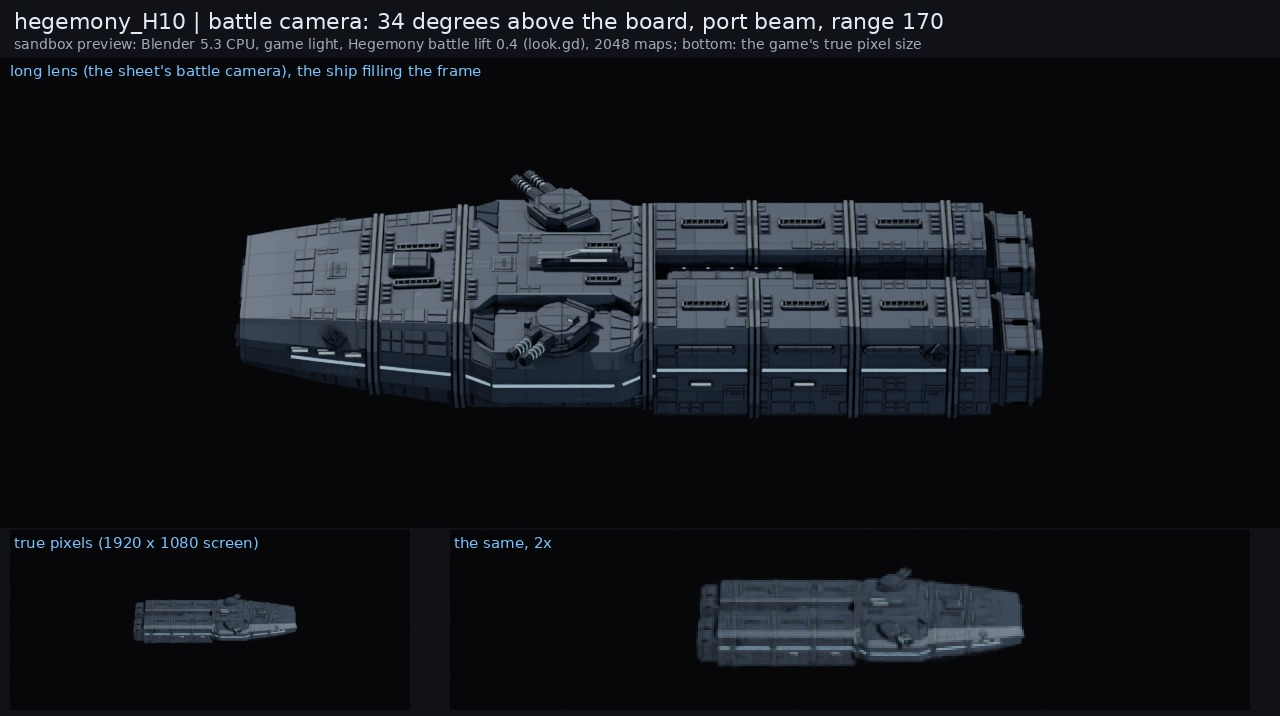
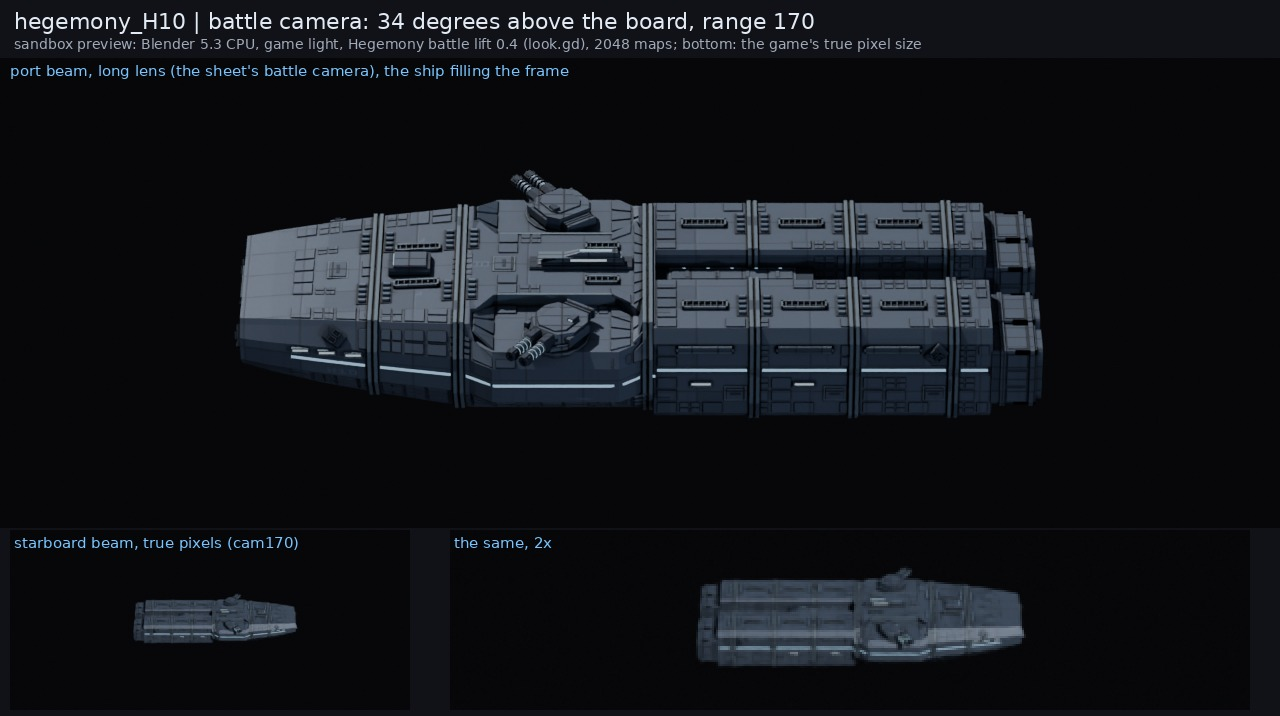
Hegemony paint: band seam words match the build, battle captions name each beam, ratios() named
The stack comments and RECIPE now say what panel_nodes draws at a module band: the joint
between the rings dark all across (.0038 ship lengths on H10, .0026 on IM5) and a one-sided
seam 1.5 patch_seam wide where each ring meets the plating. Comment-only stack change (the
bakes ran at 2d666cc). The battle pictures say the long lens is the port beam and cam170 the
starboard beam. IM5 README names inventory.py ratios(). preview.py gains a decal close (mark).

Refs #780

Claude-Session: https://claude.ai/code/session_01TX7Q21s76BEf5gcGTrpJ1G

diff --git a/tools/blender/kits/hegemony/stack.py b/tools/blender/kits/hegemony/stack.py
@@ -121,8 +121,11 @@ LAYERS = dict(
     # are drawn by panel_nodes below (the shared patchwork hands them over before it reads any of these three), so the shared
     # _grid never sees these zeros.
     patch_warp=0, patch_band=0, patch_split=0,
-    # hegemony.md 1, the module band: where hull sections butt and the rails meet the hull, a double-width seam (three times
-    # patch_seam), a deeper seam_dark .96 and an AO-driven recess
+    # hegemony.md 1, the module band: where hull sections butt and the rails meet the hull, a double-width seam (about three times
+    # patch_seam), a deeper seam_dark .96 and an AO-driven recess. As built (panel_nodes): the joint between the band's two trim
+    # rings (the sheet's *_bandseam_*, 0.08 world wide: .0038 ship lengths on H10, .0026 on IM5) is seam all across, and a
+    # one-sided seam band_seam / 2 = 1.5 patch_seam wide runs where each ring meets the plating (a full-width seam there covered
+    # the whole 0.10 world ring on the second sandbox bake)
     band_seam=3.0, band_dark=.96, band_ao=.35, band_grime=.40,
     cavity_pow=1.6, wear_lo=.30, wear_hi=.54,
     scuff=.08, scuff_size=.050,                                           # hegemony.md 1: machining and handling marks
@@ -222,8 +225,8 @@ def panel_nodes(c, col, amount, families=None, cells=None):
     beam measured out from the centreline so port and starboard are mirror images, z up), no stagger, no warp, no split: the same
     module on every sister ship. Two module sizes: patch_big on the body modules (zone hgrey), patch_small on the small module
     plates and recessed fields (hpanel, hgrey2) and on every part. Each plate cell takes one calm tone (a family or the zone's
-    own narrow slice); never per mesh island (R237: grain). The module bands (module_bands()) carry the joint: a double-width
-    seam at each band's edges and its seam, darker (band_dark), an AO-driven recess and a little more grime; over-plates
+    own narrow slice); never per mesh island (R237: grain). The module bands (module_bands()) carry the joint: the band's own
+    seam dark all across and a one-sided seam where each ring meets the plating, darker (band_dark), an AO-driven recess and a little more grime; over-plates
     (patch_over, share .05) sit only beside the bands. Returns the colour and the seam mask (the shared stack darkens the seams by
     seam_dark and bakes their relief into the hull normal)."""
     from paint_stack import node, math_, mixc, ramp
@@ -275,7 +278,7 @@ def panel_nodes(c, col, amount, families=None, cells=None):
     if not hull:
         return col, math_(nt, 'MULTIPLY', seam, amount, clamp=True)
     # the module bands: the box of each band (a little wider, so the joint reaches the plating on both sides of the rings), the
-    # double-width seams at its edges and at its own seam, and a wider neighbourhood where the over-plates may sit
+    # seams at its edges and at its own seam, and a wider neighbourhood where the over-plates may sit
     pad, near = .003, .022
     B = W = bseam = None
     for (x0, x1, y0, y1, z0, z1, xs0, xs1) in module_bands():
@@ -289,7 +292,7 @@ def panel_nodes(c, col, amount, families=None, cells=None):
         B = bi if B is None else math_(nt, 'MAXIMUM', B, bi)
         W = wi if W is None else math_(nt, 'MAXIMUM', W, wi)
         # the joint itself (the band's own seam, between its two trim rings) is seam all across, and where the rings meet the
-        # plating a seam three patch_seam wide runs on the plating side only, so the rings stay clean machined trim
+        # plating a seam band_seam / 2 patch_seam wide runs on the plating side only, so the rings stay clean machined trim
         hw = L['patch_seam'] * L['band_seam'] / 2
         e = math_(nt, 'MULTIPLY', math_(nt, 'GREATER_THAN', c.x, xs0), math_(nt, 'LESS_THAN', c.x, xs1))
         for xe, sgn in ((x0, -1.0), (x1, 1.0)):

diff --git a/contrib/opus/tools/issue780/pictures.py b/contrib/opus/tools/issue780/pictures.py
@@ -64,13 +64,13 @@ c.save(os.path.join(OUT, f'{SHEET}_paint_close.jpg'), quality=92)
 
 # 3. the battle camera: 34 degrees above the board, port beam, range 170
 c = Image.new('RGB', (1280, 716), BG)
-head(c, f'{SHEET} | battle camera: 34 degrees above the board, port beam, range 170', NOTE + '; bottom: the game\'s true pixel size')
-c.paste(band(img('paint_battle'), 470), (0, 58)); label(c, (10, 62), 'long lens (the sheet\'s battle camera), the ship filling the frame')
+head(c, f'{SHEET} | battle camera: 34 degrees above the board, range 170', NOTE + '; bottom: the game\'s true pixel size')
+c.paste(band(img('paint_battle'), 470), (0, 58)); label(c, (10, 62), 'port beam, long lens (the sheet\'s battle camera), the ship filling the frame')
 g = img('paint_cam170')
 a = np.asarray(g.convert('L')); ys, xs = np.where(a > 14)
 cx, cy = (int(xs.mean()), int(ys.mean())) if len(xs) else (320, 180)
 crop = g.crop((cx - 200, cy - 90, cx + 200, cy + 90))
-c.paste(crop, (10, 530)); label(c, (14, 534), 'true pixels (1920 x 1080 screen)')
+c.paste(crop, (10, 530)); label(c, (14, 534), 'starboard beam, true pixels (cam170)')
 z = crop.crop((0, 45, 400, 135)).resize((800, 180), Image.NEAREST); c.paste(z, (450, 530)); label(c, (454, 534), 'the same, 2x')
 c.save(os.path.join(OUT, f'{SHEET}_paint_battle.jpg'), quality=92)
 for n in ('concept', 'close', 'battle'):

diff --git a/contrib/opus/tools/issue780/preview.py b/contrib/opus/tools/issue780/preview.py
@@ -6,7 +6,8 @@
 #           beam, range 170, a long lens so the ship fills the frame)
 #   band    a module band close, from above the port bow quarter: the even grid, the double seam, the latch row
 #   flank   the port flank close: the blue line, its break at a band, the hull number
-# usage: python run_cpu.py preview.py PAINTED.blend -- OUT_DIR SHEET CONCEPT_JPG [samples=16] [scale=0.5] [only=battle,band,flank]
+#   mark    a decal close (only with mark=x,y,z, a position from the job's decal report)
+# usage: python run_cpu.py preview.py PAINTED.blend -- OUT_DIR SHEET CONCEPT_JPG [samples=16] [scale=0.5] [only=battle,band,flank,mark] [mark=x,y,z]
 import os, sys, math, json, re, runpy
 import bpy
 from mathutils import Vector
@@ -60,4 +61,7 @@ if 'flank' in want:
     else:
         t = Vector((.25, .15, 0))
     o = cam('flank', t, Vector((0.25, 1.0, 0.30)).normalized() * .34, 50, (1280, 720)); shoot(o, 'paint_flank', float(SCALE) * 2)
+if 'mark' in want and kw.get('mark'):      # a decal close (mark=x,y,z from the job's decal report): the stencil read at close range
+    t = Vector(tuple(float(v) for v in kw['mark'].split(',')))
+    o = cam('mark', t, Vector((0.15, 1.0 if t.y >= 0 else -1.0, 0.35)).normalized() * .12, 50, (1280, 720)); shoot(o, 'paint_mark', float(SCALE) * 2)
 print('[780] preview done', flush=True)

diff --git a/docs/ship_pipeline/RECIPE.md b/docs/ship_pipeline/RECIPE.md
@@ -306,8 +306,10 @@ Sunward stacks and `kits/shared` untouched). What is the faction's own, and wher
   are 0 with the R243 comment (the even grid is the lore; never warp it). The sheets model the grid as flush slabs
   (`module_panels`), so on the plated zones the painted seams are faint (`grid_seam` .35) and the cells' calm tones carry it.
   The module band: every hull object named `*_bandseam_*` (with the `*_band_*` trim rings beside it) is a joint; there the
-  seams run three times as wide (`band_seam`), reach `band_dark` .96, the short occlusion deepens the recess and grime gathers
-  to .40; over-plates (`patch_over`, share .05) sit only beside the bands. A sheet with no band stops the stack. No rivets
+  joint between the two rings is seam all across (0.08 world: .0038 ship lengths on H10, .0026 on IM5, against hegemony.md's
+  "about three times patch_seam", .0048), a one-sided seam 1.5 patch_seam wide (`band_seam` / 2) runs where each ring meets the
+  plating, so the rings stay clean trim, the seams reach `band_dark` .96, the short occlusion deepens the recess and grime
+  gathers to .40; over-plates (`patch_over`, share .05) sit only beside the bands. A sheet with no band stops the stack. No rivets
   (flush fasteners);
 - light (hegemony.md 5): every value is the brightest linear channel of the emission times its strength, under the game's 0.8
   threshold, and no Hegemony light has red over blue (never warm): the blue line's strips 0.74 (the game's Hegemony engine

diff --git a/docs/ship_pipeline/build_sheets/hegemony_IM5/README.md b/docs/ship_pipeline/build_sheets/hegemony_IM5/README.md
@@ -112,7 +112,7 @@ measured here. It is one hull on the board (the boss), not a line ship repeated.
 | **Build** | **2.66** | **7.88** | 2.45 | 6.97 |
 
 What each figure measures (issue 780, Muse's opus_check_775 conditions 1 and 2): the table is the proportions tool's own output
-(`tools/blender/build_sheets/inventory.py`, `proportions()`), measured on the silhouettes of the top and side renders (and of the
+(`tools/blender/build_sheets/inventory.py`, `ratios()`), measured on the silhouettes of the top and side renders (and of the
 concept views). **Hull length:beam 2.66** is the silhouette's length over its MEDIAN width across the middle 60 percent of the
 length (the stations from 20 to 80 percent): the beam of the main body, the swells and the narrowing bow and stern counted only as
 far as they move the median (about 11.7 of 31.2). **Envelope length:beam 2.45** is the silhouette's length over its WIDEST point:
